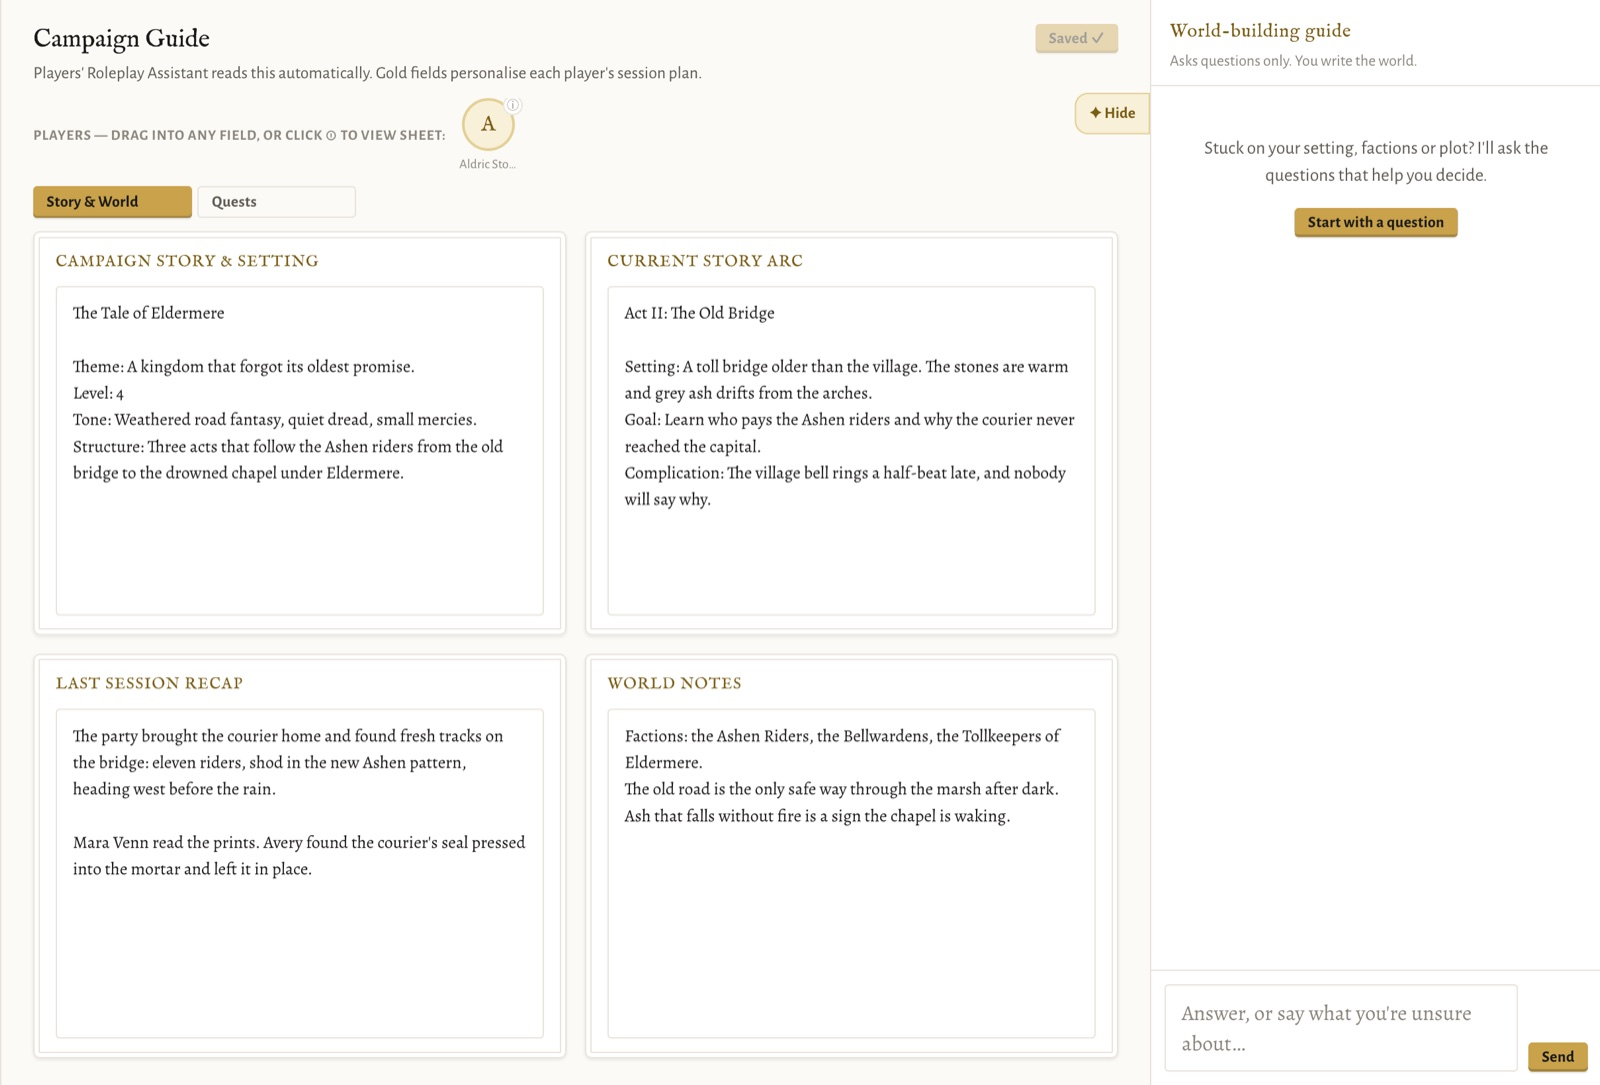
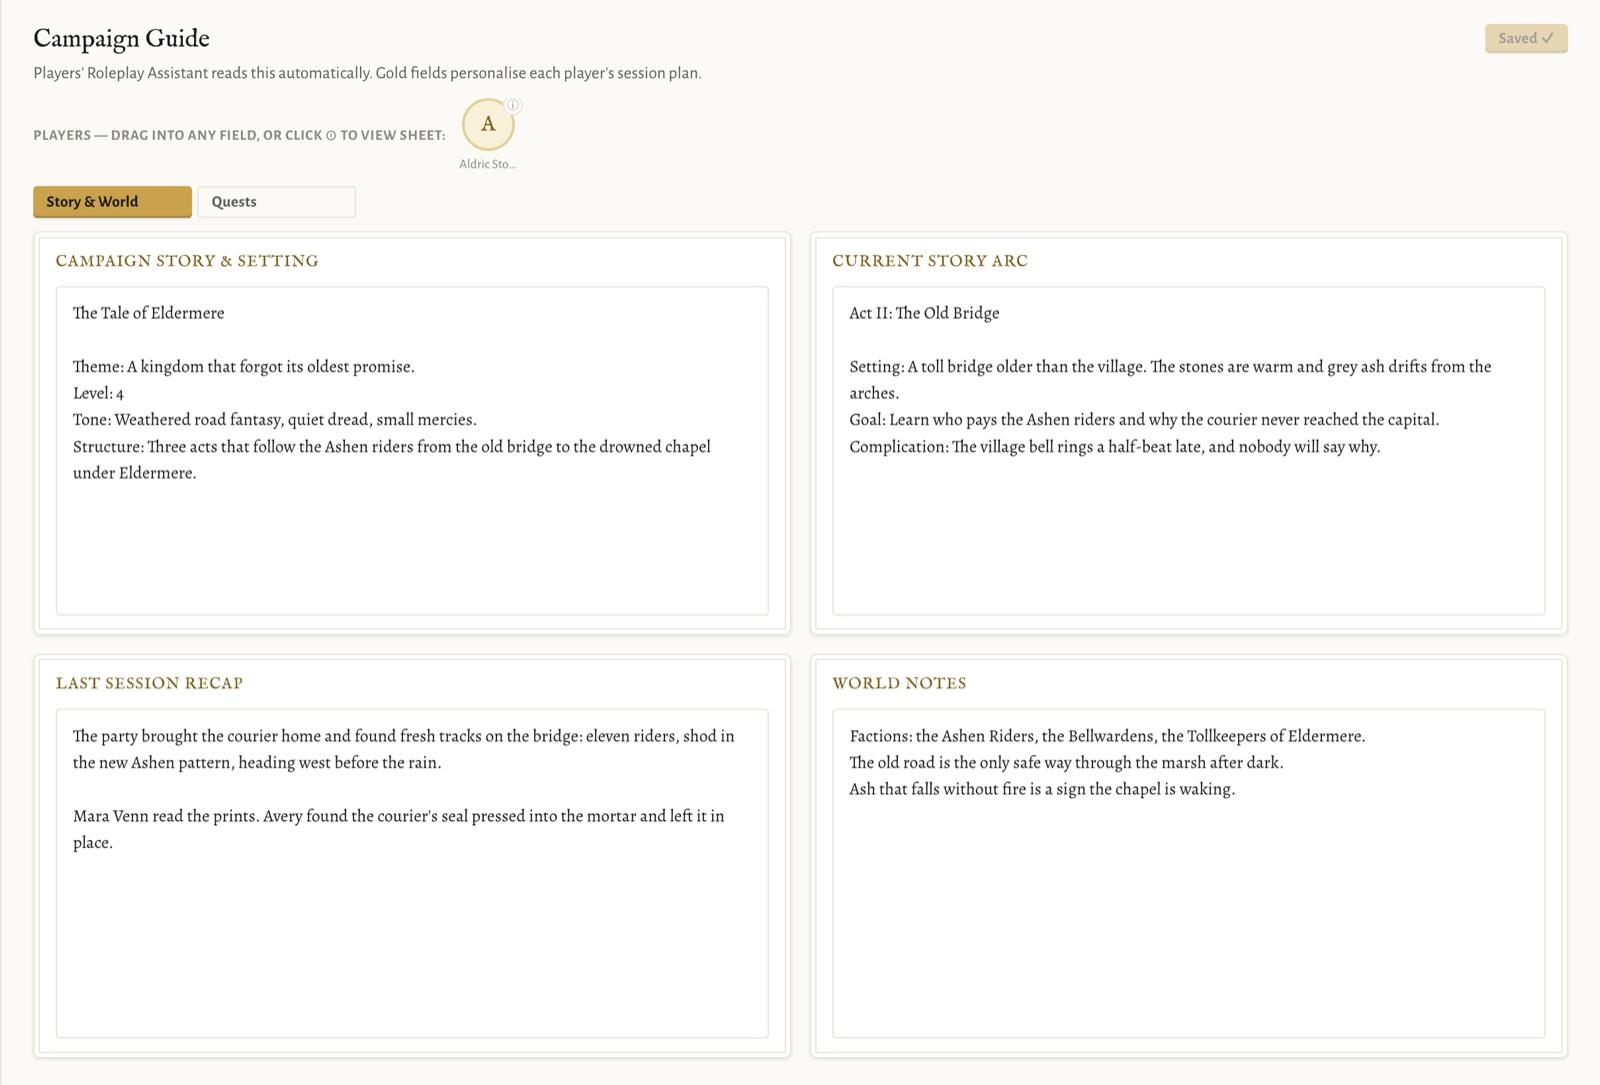
Switch the AI features off until they work: one flag (VITE_AI_ENABLED on the site, AI_ENABLED on the server, both default off) hides the world-building guide and Generate buttons, removes the AI lines from the Premium page, landing copy and table, and makes the AI routes answer 503. Code kept for tu

diff --git a/client/src/pages/Storyboard.jsx b/client/src/pages/Storyboard.jsx
@@ -5,6 +5,7 @@ import { api, useAuth } from '../context/AuthContext'
 import { useCampaign } from '../context/CampaignContext'
 import { useToast } from '../hooks/useToast'
 import ImageGenModal from '../components/ImageGenModal'
+import { AI_ENABLED } from '../utils/features'
 import { uploadToCloudinary } from '../utils/uploadToCloudinary'
 import { isPublicDemoPath } from '../utils/demoRuntime'
 import { CloudinaryImage } from '@cloudinary/url-gen'
@@ -347,7 +348,7 @@ export default function Storyboard() {
                 {imageUploading ? 'Uploading…' : newImage ? 'Image selected ✓' : 'Upload image'}
                 {!imageUploading && <input type="file" accept="image/*" style={{ display: 'none' }} onChange={handleImagePick} />}
               </label>
-              {isDM && <button type="button" disabled={isPremium && (!newTitle.trim() && !(newDesc || '').trim())} onClick={() => !isPremium ? (window.location.href = '/premium') : setGenFor({ title: newTitle, description: newDesc, onUse: setNewImage })} title="Paint this scene with AI, using your campaign characters' avatars" style={{ background: 'var(--surface)', border: '1px solid var(--gold-border)', borderRadius: 6, padding: '5px 10px', fontSize: 12, color: 'var(--gold)', cursor: 'pointer' }}>{isPremium ? '✦ Generate' : '✦ Generate (Premium)'}</button>}
+              {isDM && AI_ENABLED && <button type="button" disabled={isPremium && (!newTitle.trim() && !(newDesc || '').trim())} onClick={() => !isPremium ? (window.location.href = '/premium') : setGenFor({ title: newTitle, description: newDesc, onUse: setNewImage })} title="Paint this scene with AI, using your campaign characters' avatars" style={{ background: 'var(--surface)', border: '1px solid var(--gold-border)', borderRadius: 6, padding: '5px 10px', fontSize: 12, color: 'var(--gold)', cursor: 'pointer' }}>{isPremium ? '✦ Generate' : '✦ Generate (Premium)'}</button>}
               {newImage && <button onClick={() => setNewImage(null)} style={{ background: 'none', border: 'none', color: 'var(--text-3)', cursor: 'pointer', fontSize: 12 }}>✕ Remove</button>}
             </div>
           </div>
@@ -455,7 +456,7 @@ export default function Storyboard() {
                   {editImgUploading ? 'Uploading…' : 'Replace image'}
                   {!editImgUploading && <input type="file" accept="image/*" style={{ display: 'none' }} onChange={handleEditImagePick} />}
                 </label>
-                {isDM && <button type="button" disabled={isPremium && (!(editCard.title || '').trim() && !(editCard.description || '').trim())} onClick={() => !isPremium ? (window.location.href = '/premium') : setGenFor({ title: editCard.title, description: editCard.description, onUse: (url) => editField(withImage(url)) })} title="Paint this scene with AI, using your campaign characters' avatars" style={{ background: 'var(--surface)', border: '1px solid var(--gold-border)', borderRadius: 6, padding: '5px 10px', fontSize: 12, color: 'var(--gold)', cursor: 'pointer' }}>{isPremium ? '✦ Generate' : '✦ Generate (Premium)'}</button>}
+                {isDM && AI_ENABLED && <button type="button" disabled={isPremium && (!(editCard.title || '').trim() && !(editCard.description || '').trim())} onClick={() => !isPremium ? (window.location.href = '/premium') : setGenFor({ title: editCard.title, description: editCard.description, onUse: (url) => editField(withImage(url)) })} title="Paint this scene with AI, using your campaign characters' avatars" style={{ background: 'var(--surface)', border: '1px solid var(--gold-border)', borderRadius: 6, padding: '5px 10px', fontSize: 12, color: 'var(--gold)', cursor: 'pointer' }}>{isPremium ? '✦ Generate' : '✦ Generate (Premium)'}</button>}
                 {editCard.imageUrl && <span style={{ fontSize: 11, color: 'var(--green)' }}>Image set ✓</span>}
               </div>
             </div>

diff --git a/client/src/pages/PublicDemo.jsx b/client/src/pages/PublicDemo.jsx
@@ -37,7 +37,7 @@ const ABOUT = [
   { id: 'battle-tracker', image: '/showcase/battle-tracker.jpg', alt: 'The Battle Tracker with a boss, an enemy and a player card in initiative order, each with hit points and attack buttons', title: 'Battle Tracker', text: 'Roll initiative for everyone, work out attacks against armour class and keep hit points straight. Search the SRD monster list to add enemies in a click.' },
   { id: 'storyboard', image: '/showcase/storyboard.jpg', alt: 'A Storyboard page: an illustration of a party of adventurers beside the scene text', title: 'Storyboard', text: 'Lay out the scenes of your adventure as illustrated pages, then print them for the table.' },
   { id: 'journal', image: '/showcase/journal.jpg', alt: 'A Journal entry with the list of days on the left and the session notes on the right', title: 'Journal', text: 'Write session notes for each campaign and character, with the date written and last edit saved on every entry.' },
-  { title: 'Campaign Guide', image: '/showcase/campaign-guide.jpg', alt: 'The Campaign Guide with story, current arc, session recap and world notes, and the world-building guide panel on the right', text: 'Keep your story, current arc, session recap and quests in one guide. The optional AI guide only asks questions to help you decide, so the world stays yours.', to: '/register', cta: 'Create a free account' },
+  { title: 'Campaign Guide', image: '/showcase/campaign-guide.jpg', alt: 'The Campaign Guide with story, current arc, session recap and world notes', text: 'Keep your story, current arc, session recap and quests in one guide. Your players’ Roleplay Assistant reads it automatically, so their session plans fit your campaign.', to: '/register', cta: 'Create a free account' },
   { id: 'roleplay', image: '/showcase/roleplay.jpg', alt: 'The Roleplay Assistant with character basics and character depth fields filled in', title: 'Roleplay', text: 'Fill in your character’s background, personality and goals, and get a session plan that ties them to the story your DM is telling.' },
   { title: 'Lore, characters and dice', visual: <SpinningDice />, text: 'Keep world and NPC lore, build character sheets and roll true 3D d4, d6, d8, d10, d12 and d20 dice.', to: '/register', cta: 'Create a free account' },
   { title: 'Class themes', badge: 'Premium', visual: <ThemeMontage />, text: 'Switch the whole app between class themes such as Barbarian, Wizard, Druid, Paladin, Rogue and Bard. The rest of these screenshots show the default light theme. Light and Dark are free.', to: '/register', cta: 'Create a free account' },
@@ -178,7 +178,7 @@ export default function PublicDemo() {
   }
   const DemoPage = demoPages[feature]
 
-  const LANDING_DESC = 'Free D&D 5e campaign companion: session journal, lore, character sheets, battle maps, initiative tracker, 3D dice and an AI storyteller for players and Dungeon Masters.'
+  const LANDING_DESC = 'Free D&D 5e campaign companion: session journal, lore, character sheets, battle maps, initiative tracker, 3D dice and more for players and Dungeon Masters.'
   usePageMeta(onLanding
     ? { title: '5e Utility: D&D campaign companion for journals, lore, maps and dice', description: LANDING_DESC, path: '/' }
     : activeFeature

diff --git a/client/src/pages/Premium.jsx b/client/src/pages/Premium.jsx
@@ -2,6 +2,9 @@ import { useEffect, useState } from 'react'
 import { useSearchParams, useNavigate } from 'react-router-dom'
 import { useAuth } from '../context/AuthContext'
 import { api } from '../context/AuthContext'
+import { AI_ENABLED } from '../utils/features'
+
+const visible = f => AI_ENABLED || !/storyboard generation/i.test(f)
 
 const FEATURES = {
   dm: {
@@ -107,7 +110,7 @@ export default function Premium() {
             <span style={{ background: 'var(--gold)', color: '#fff', fontSize: 10, padding: '2px 8px', borderRadius: 20, fontWeight: 600 }}>✦ PRO</span>
           </div>
           <div style={{ fontSize: 28, fontWeight: 600, marginBottom: 20, color: 'var(--gold)' }}>${tier.price} <span style={{ fontSize: 13, fontWeight: 400, color: 'var(--text-2)' }}>/month</span></div>
-          {tier.premium.map(f => (
+          {tier.premium.filter(visible).map(f => (
             <div key={f} style={{ display: 'flex', alignItems: 'center', gap: 8, marginBottom: 10, fontSize: 13, color: 'var(--text)' }}>
               <span style={{ color: 'var(--gold)' }}>✦</span> {f}
             </div>
@@ -132,7 +135,7 @@ export default function Premium() {
         <div className="card" style={{ padding: 24 }}>
           <div style={{ fontFamily: 'var(--font-title)', fontSize: 16, marginBottom: 4 }}>{isDM ? 'Standard DM Toolkit' : 'Free'}</div>
           <div style={{ fontSize: 28, fontWeight: 600, marginBottom: 20 }}>$0 <span style={{ fontSize: 13, fontWeight: 400, color: 'var(--text-2)' }}>/month</span></div>
-          {tier.free.map(f => (
+          {tier.free.filter(visible).map(f => (
             <div key={f} style={{ display: 'flex', alignItems: 'center', gap: 8, marginBottom: 10, fontSize: 13, color: 'var(--text-2)' }}>
               <span style={{ color: 'var(--green)' }}>✓</span> {f}
             </div>

diff --git a/server/routes/ai.test.js b/server/routes/ai.test.js
@@ -9,7 +9,7 @@ test('AI routes are DM-only, keep the coach prompt, and only fetch Cloudinary av
   const patched = []
   const stub = (target, name, fn) => { patched.push([target, name, target[name]]); target[name] = fn }
   const env = { secret: process.env.JWT_SECRET, key: process.env.GEMINI_API_KEY }
-  process.env.JWT_SECRET = 'test-secret'; process.env.GEMINI_API_KEY = 'test-key'
+  process.env.JWT_SECRET = 'test-secret'; process.env.GEMINI_API_KEY = 'test-key'; process.env.AI_ENABLED = 'true'
   const dm = '507f1f77bcf86cd799439011', player = '507f1f77bcf86cd799439012', freeDm = '507f1f77bcf86cd799439013', campaignId = '507f1f77bcf86cd799439014'
   stub(User, 'findById', id => ({ select: async () => ({ role: id === player ? 'player' : 'dm', roles: [], isPremium: id === dm }) }))
   stub(Campaign, 'findOne', query => ({ select: async () => ((query.owner === dm || query.owner === freeDm) ? { _id: campaignId, name: 'Realm', setting: 'Salt marsh' } : null) }))

diff --git a/client/src/pages/SessionPlanner.jsx b/client/src/pages/SessionPlanner.jsx
@@ -3,6 +3,7 @@ import { useState, useEffect, useCallback, useRef } from 'react'
 import { Navigate } from 'react-router-dom'
 import UpgradeModal from '../components/UpgradeModal'
 import GuideAssistant from '../components/GuideAssistant'
+import { AI_ENABLED } from '../utils/features'
 import { api, useAuth } from '../context/AuthContext'
 import { useCampaign } from '../context/CampaignContext'
 import { useToast } from '../hooks/useToast'
@@ -289,7 +290,7 @@ export default function SessionPlanner() {
         </div>
       </div>
 
-      {activeCampaign && !activeCampaign.isPersonal && <GuideAssistant campaignId={activeCampaign._id} />}
+      {AI_ENABLED && activeCampaign && !activeCampaign.isPersonal && <GuideAssistant campaignId={activeCampaign._id} />}
 
       <ToastContainer />
       {showUpgrade && <UpgradeModal onClose={() => setShowUpgrade(false)} />}

diff --git a/server/routes/aiOff.test.js b/server/routes/aiOff.test.js
@@ -1,0 +1,17 @@
+import test from 'node:test'
+import assert from 'node:assert/strict'
+import express from 'express'
+
+delete process.env.AI_ENABLED
+const { default: router } = await import('./ai.js')
+
+test('the AI routes answer 503 until AI_ENABLED=true', async (t) => {
+  const app = express(); app.use(express.json()); app.use('/ai', router)
+  const server = await new Promise(resolve => { const l = app.listen(0, '127.0.0.1', () => resolve(l)) })
+  t.after(() => server.close())
+  for (const path of ['/worldbuild', '/storyboard-image']) {
+    const r = await fetch(`http://127.0.0.1:${server.address().port}/ai${path}`, { method: 'POST', headers: { 'Content-Type': 'application/json' }, body: '{}' })
+    assert.equal(r.status, 503)
+    assert.match((await r.json()).error, /switched off/)
+  }
+})

diff --git a/client/index.html b/client/index.html
@@ -3,7 +3,7 @@
   <head>
     <meta charset="UTF-8" />
     <meta name="viewport" content="width=device-width, initial-scale=1.0, maximum-scale=1.0, user-scalable=no" />
-    <meta name="description" content="5e Utility is a free D&amp;D 5e campaign companion: session journal, lore, character sheets, battle maps, initiative tracker, 3D dice and an AI storyteller for players and Dungeon Masters." />
+    <meta name="description" content="5e Utility is a free D&amp;D 5e campaign companion: session journal, lore, character sheets, battle maps, initiative tracker, 3D dice and more for players and Dungeon Masters." />
     <meta name="theme-color" content="#f4ecd8" />
     <meta property="og:type" content="website" />
     <meta property="og:site_name" content="5e Utility" />

diff --git a/client/src/pages/CampaignGuide.jsx b/client/src/pages/CampaignGuide.jsx
@@ -1,4 +1,5 @@
 import GuideAssistant from '../components/GuideAssistant'
+import { AI_ENABLED } from '../utils/features'
 import { useDebouncedSave } from '../hooks/useDebouncedSave'
 import { useState, useEffect, useCallback, useRef } from 'react'
 import { api, useAuth } from '../context/AuthContext'
@@ -447,7 +448,7 @@ export default function CampaignGuide() {
       {charModal && <CharModal player={charModal} onClose={() => setCharModal(null)} />}
       <ToastContainer />
     </div>
-    <GuideAssistant campaignId={activeCampaign._id} />
+    {AI_ENABLED && <GuideAssistant campaignId={activeCampaign._id} />}
     </div>
   )
 }

diff --git a/server/routes/ai.js b/server/routes/ai.js
@@ -6,6 +6,9 @@ import { auth } from './campaigns.js'
 
 const router = Router()
 
+// The AI features are switched off until they work reliably. Set AI_ENABLED=true on the server to turn them back on.
+router.use((_req, res, next) => (process.env.AI_ENABLED === 'true' ? next() : res.status(503).json({ error: 'The AI features are switched off for now.' })))
+
 // Gemini retires model names often, so the usable models are discovered from Google's own
 // model list (cached for an hour) and the newest "flash" ones are tried first.
 // GEMINI_MODEL / GEMINI_IMAGE_MODEL (when set) are always tried first; the fixed names are a last resort.

diff --git a/client/src/components/PremiumVisuals.jsx b/client/src/components/PremiumVisuals.jsx
@@ -26,7 +26,6 @@ const ROWS = [
   ['Campaigns (players)', '1 campaign', 'Unlimited'],
   ['Journal entries', '15 entries', 'Unlimited'],
   ['Themes', 'Light and Dark', 'Every class theme'],
-  ['AI world-building guide', '10 questions a day', '60 questions an hour'],
 ]
 
 export function PlanTable() {

diff --git a/client/src/utils/features.js b/client/src/utils/features.js
@@ -1,0 +1,3 @@
+// The AI features (the world-building guide and scene image generation) are switched off until they work reliably.
+// To bring them back, set VITE_AI_ENABLED=true for the site build and AI_ENABLED=true on the server.
+export const AI_ENABLED = import.meta.env.VITE_AI_ENABLED === 'true'
